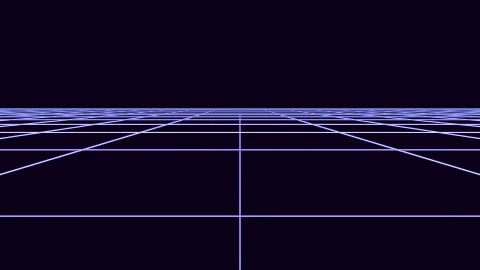
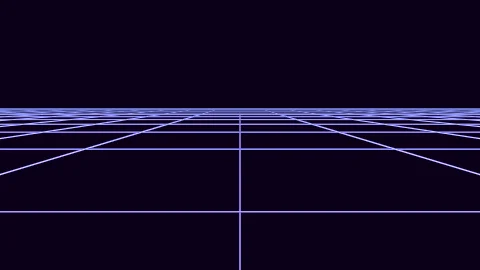
Scale up widget previews to 1.45 for prominent centered vitrine look

Changed region(s): [[0.0, 0.7704, 1.0, 0.8296], [0.0, 0.4444, 1.0, 0.5037], [0.0, 0.5333, 1.0, 0.563]]

diff --git a/scripts/generate-hub-previews.js b/scripts/generate-hub-previews.js
@@ -1,6 +1,6 @@
 #!/usr/bin/env node
 /**
- * WallCraft Hub — Automated Preview Snapshot Generator
+ * WallCraft Hub â€” Automated Preview Snapshot Generator
  * 
  * Pre-renders and captures crisp 480x270 (exact 16:9) WebP preview images for widgets
  * and shaders that do not have a developer-specified previewImage.
@@ -50,7 +50,7 @@ function findShaderEngineFiles() {
 
 async function run() {
   console.log('========================================================');
-  console.log('  WallCraft Hub — Build-Time Snapshot Generator (16:9)');
+  console.log('  WallCraft Hub â€” Build-Time Snapshot Generator (16:9)');
   console.log(`  Target Directory: ${targetHubDir}`);
   console.log(`  Force Mode: ${forceRegenerate}`);
   console.log('========================================================\n');
@@ -253,7 +253,7 @@ async function run() {
                 display: flex;
                 align-items: center;
                 justify-content: center;
-                transform: scale(1.15);
+                transform: scale(1.45);
                 transform-origin: center center;
               }
               ${cssContent}
